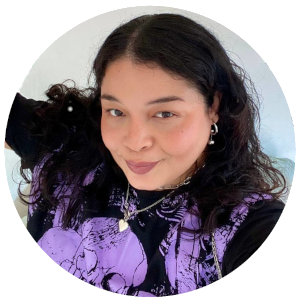
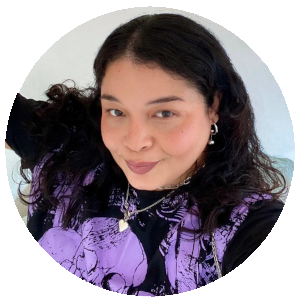
Up

diff --git a/posts/style.css b/posts/style.css
@@ -9,7 +9,7 @@
   --pink: #ff9fc7;
   --line: #17151f;
   --card-bg: #ffffff;
-  --shadow: 4px 4px 0 var(--ink);
+  --shadow: 0 10px 34px rgba(23,21,31,0.10);
   --radius: 2px;
 }
 
@@ -65,7 +65,7 @@ body{
   padding: 32px 28px 40px;
   background: var(--card-bg);
   border-radius: 10px;
-  box-shadow: 0 10px 34px rgba(23,21,31,0.10);
+  box-shadow: var(--content-shadow);
 }
 
 h1, .title{
@@ -82,6 +82,7 @@ h1, .title{
   color: var(--lilac);
 }
 
+
 .profile-section{
   display: flex;
   justify-content: center;
@@ -96,6 +97,7 @@ h1, .title{
   padding: 0;
   border-radius: 6px;
 }
+
 
 .profile-section::before{
   content: "";
@@ -125,9 +127,7 @@ h1, .title{
     margin: 3rem 0;
 }
 
-/* divisor 100% ASCII/CSS.
-   Para usar, troque o <img class="separator-img" ...> por:
-   <div class="divider-ascii">· ⋆ ✦ ⋆ · ⋆ ✦ ⋆ ·</div>            */
+/* Separador 100% ASCII/CSS: <img class="separator-img" ...> por: <div class="divider-ascii">· ⋆ ✦ ⋆ · ⋆ ✦ ⋆ ·</div> */
 .divider-ascii{
   text-align: center;
   font-family: 'VT323', monospace;
@@ -412,48 +412,50 @@ footer p{
 @keyframes floatUp{
   to{ transform: translateY(-24px); opacity: 0; }
 }
-
-/* ---------- navegação entre posts do blog ---------- */
-.post-nav{
-  display: flex;
-  align-items: center;
-  justify-content: space-between;
-  gap: 10px;
-  margin: 4px 0 16px;
-  font-family: 'VT323', monospace;
-  font-size: 1.25rem;
+/* Tema escuro */
+:root[data-theme="dark"]{
+  --bg: #15131c;
+  --bg-dot: #2a2438;
+  --ink: #f2eefc;
+  --lilac: #b39ef0;
+  --lilac-soft: #6b5a99;
+  --pink: #ffb3d6;
+  --card-bg: #1e1b29;
+  --content-shadow: 0 10px 34px rgba(0,0,0,0.45);
 }
 
-.post-nav-link{
-  color: var(--ink);
-  text-decoration: none;
-  border: none !important;
-  white-space: nowrap;
+body,
+.content,
+.gallery img,
+.separator-img{
+  transition: background-color .2s ease, color .2s ease, border-color .2s ease;
 }
 
-.post-nav-link:hover{
-  color: var(--lilac);
+.theme-toggle{
+  position: fixed;
+  top: 16px;
+  right: 16px;
+  z-index: 500;
+  width: 34px;
+  height: 34px;
+  padding: 0;
+  border: none;
+  border-radius: 50%;
+  background: transparent;
+  cursor: pointer;
+  opacity: .55;
+  transition: opacity .15s ease, transform .15s ease;
 }
 
-.post-nav-link.is-disabled{
-  color: var(--lilac-soft);
-  pointer-events: none;
+.theme-toggle:hover{
+  opacity: 1;
+  transform: scale(1.08);
 }
 
-.post-nav-top{
-  color: var(--ink);
-  text-decoration: none;
-  border: none !important;
-  font-size: 1.4rem;
-}
-
-.post-nav-top:hover{
-  color: var(--lilac);
-}
-
-.post-nav-prev{ text-align: left; }
-.post-nav-next{ text-align: right; }
-
-@media (max-width: 420px){
-  .post-nav{ font-size: 1.05rem; }
+.theme-toggle img{
+  width: 100%;
+  height: 100%;
+  display: block;
+  image-rendering: pixelated;
+  image-rendering: -moz-crisp-edges;
 }

diff --git a/posts/foss-solucao.html b/posts/foss-solucao.html
@@ -5,6 +5,15 @@
     <meta name="viewport" content="width=device-width, initial-scale=1.0">
     <title>Thaise Oliveira</title>
     <link rel="icon" href="imagens/icon.png" type="image/png" alt="estrela de 8 pontas em pixel art na cor lilás">
+    <script>
+  (function () {
+    try {
+      if (localStorage.getItem('thaiveira-theme') === 'dark') {
+        document.documentElement.setAttribute('data-theme', 'dark');
+      }
+    } catch (e) {}
+  })();
+</script>
     <link rel="stylesheet" href="style.css">
     <link rel="preconnect" href="https://fonts.googleapis.com">
     <link rel="preconnect" href="https://fonts.gstatic.com" crossorigin>

diff --git a/posts/githubxcodeberg.html b/posts/githubxcodeberg.html
@@ -5,6 +5,15 @@
     <meta name="viewport" content="width=device-width, initial-scale=1.0">
     <title>Thaise Oliveira</title>
     <link rel="icon" href="imagens/icon.png" type="image/png" alt="estrela de 8 pontas em pixel art na cor lilás">
+    <script>
+  (function () {
+    try {
+      if (localStorage.getItem('thaiveira-theme') === 'dark') {
+        document.documentElement.setAttribute('data-theme', 'dark');
+      }
+    } catch (e) {}
+  })();
+</script>
     <link rel="stylesheet" href="style.css">
     <link rel="preconnect" href="https://fonts.googleapis.com">
     <link rel="preconnect" href="https://fonts.gstatic.com" crossorigin>

diff --git a/posts/hello-world.html b/posts/hello-world.html
@@ -5,6 +5,15 @@
     <meta name="viewport" content="width=device-width, initial-scale=1.0">
     <title>Thaise Oliveira</title>
     <link rel="icon" href="imagens/icon.png" type="image/png" alt="estrela de 8 pontas em pixel art na cor lilás">
+    <script>
+  (function () {
+    try {
+      if (localStorage.getItem('thaiveira-theme') === 'dark') {
+        document.documentElement.setAttribute('data-theme', 'dark');
+      }
+    } catch (e) {}
+  })();
+</script>
     <link rel="stylesheet" href="style.css">
     <link rel="preconnect" href="https://fonts.googleapis.com">
     <link rel="preconnect" href="https://fonts.gstatic.com" crossorigin>

diff --git a/posts/ideiaxfazer.html b/posts/ideiaxfazer.html
@@ -5,6 +5,15 @@
     <meta name="viewport" content="width=device-width, initial-scale=1.0">
     <title>Thaise Oliveira</title>
     <link rel="icon" href="imagens/icon.png" type="image/png" alt="estrela de 8 pontas em pixel art na cor lilás">
+    <script>
+  (function () {
+    try {
+      if (localStorage.getItem('thaiveira-theme') === 'dark') {
+        document.documentElement.setAttribute('data-theme', 'dark');
+      }
+    } catch (e) {}
+  })();
+</script>
     <link rel="stylesheet" href="style.css">
     <link rel="preconnect" href="https://fonts.googleapis.com">
     <link rel="preconnect" href="https://fonts.gstatic.com" crossorigin>

diff --git a/posts/montando-pc.html b/posts/montando-pc.html
@@ -5,6 +5,15 @@
     <meta name="viewport" content="width=device-width, initial-scale=1.0">
     <title>Thaise Oliveira</title>
     <link rel="icon" href="imagens/icon.png" type="image/png" alt="estrela de 8 pontas em pixel art na cor lilás">
+    <script>
+  (function () {
+    try {
+      if (localStorage.getItem('thaiveira-theme') === 'dark') {
+        document.documentElement.setAttribute('data-theme', 'dark');
+      }
+    } catch (e) {}
+  })();
+</script>
     <link rel="stylesheet" href="style.css">
     <link rel="preconnect" href="https://fonts.googleapis.com">
     <link rel="preconnect" href="https://fonts.gstatic.com" crossorigin>
